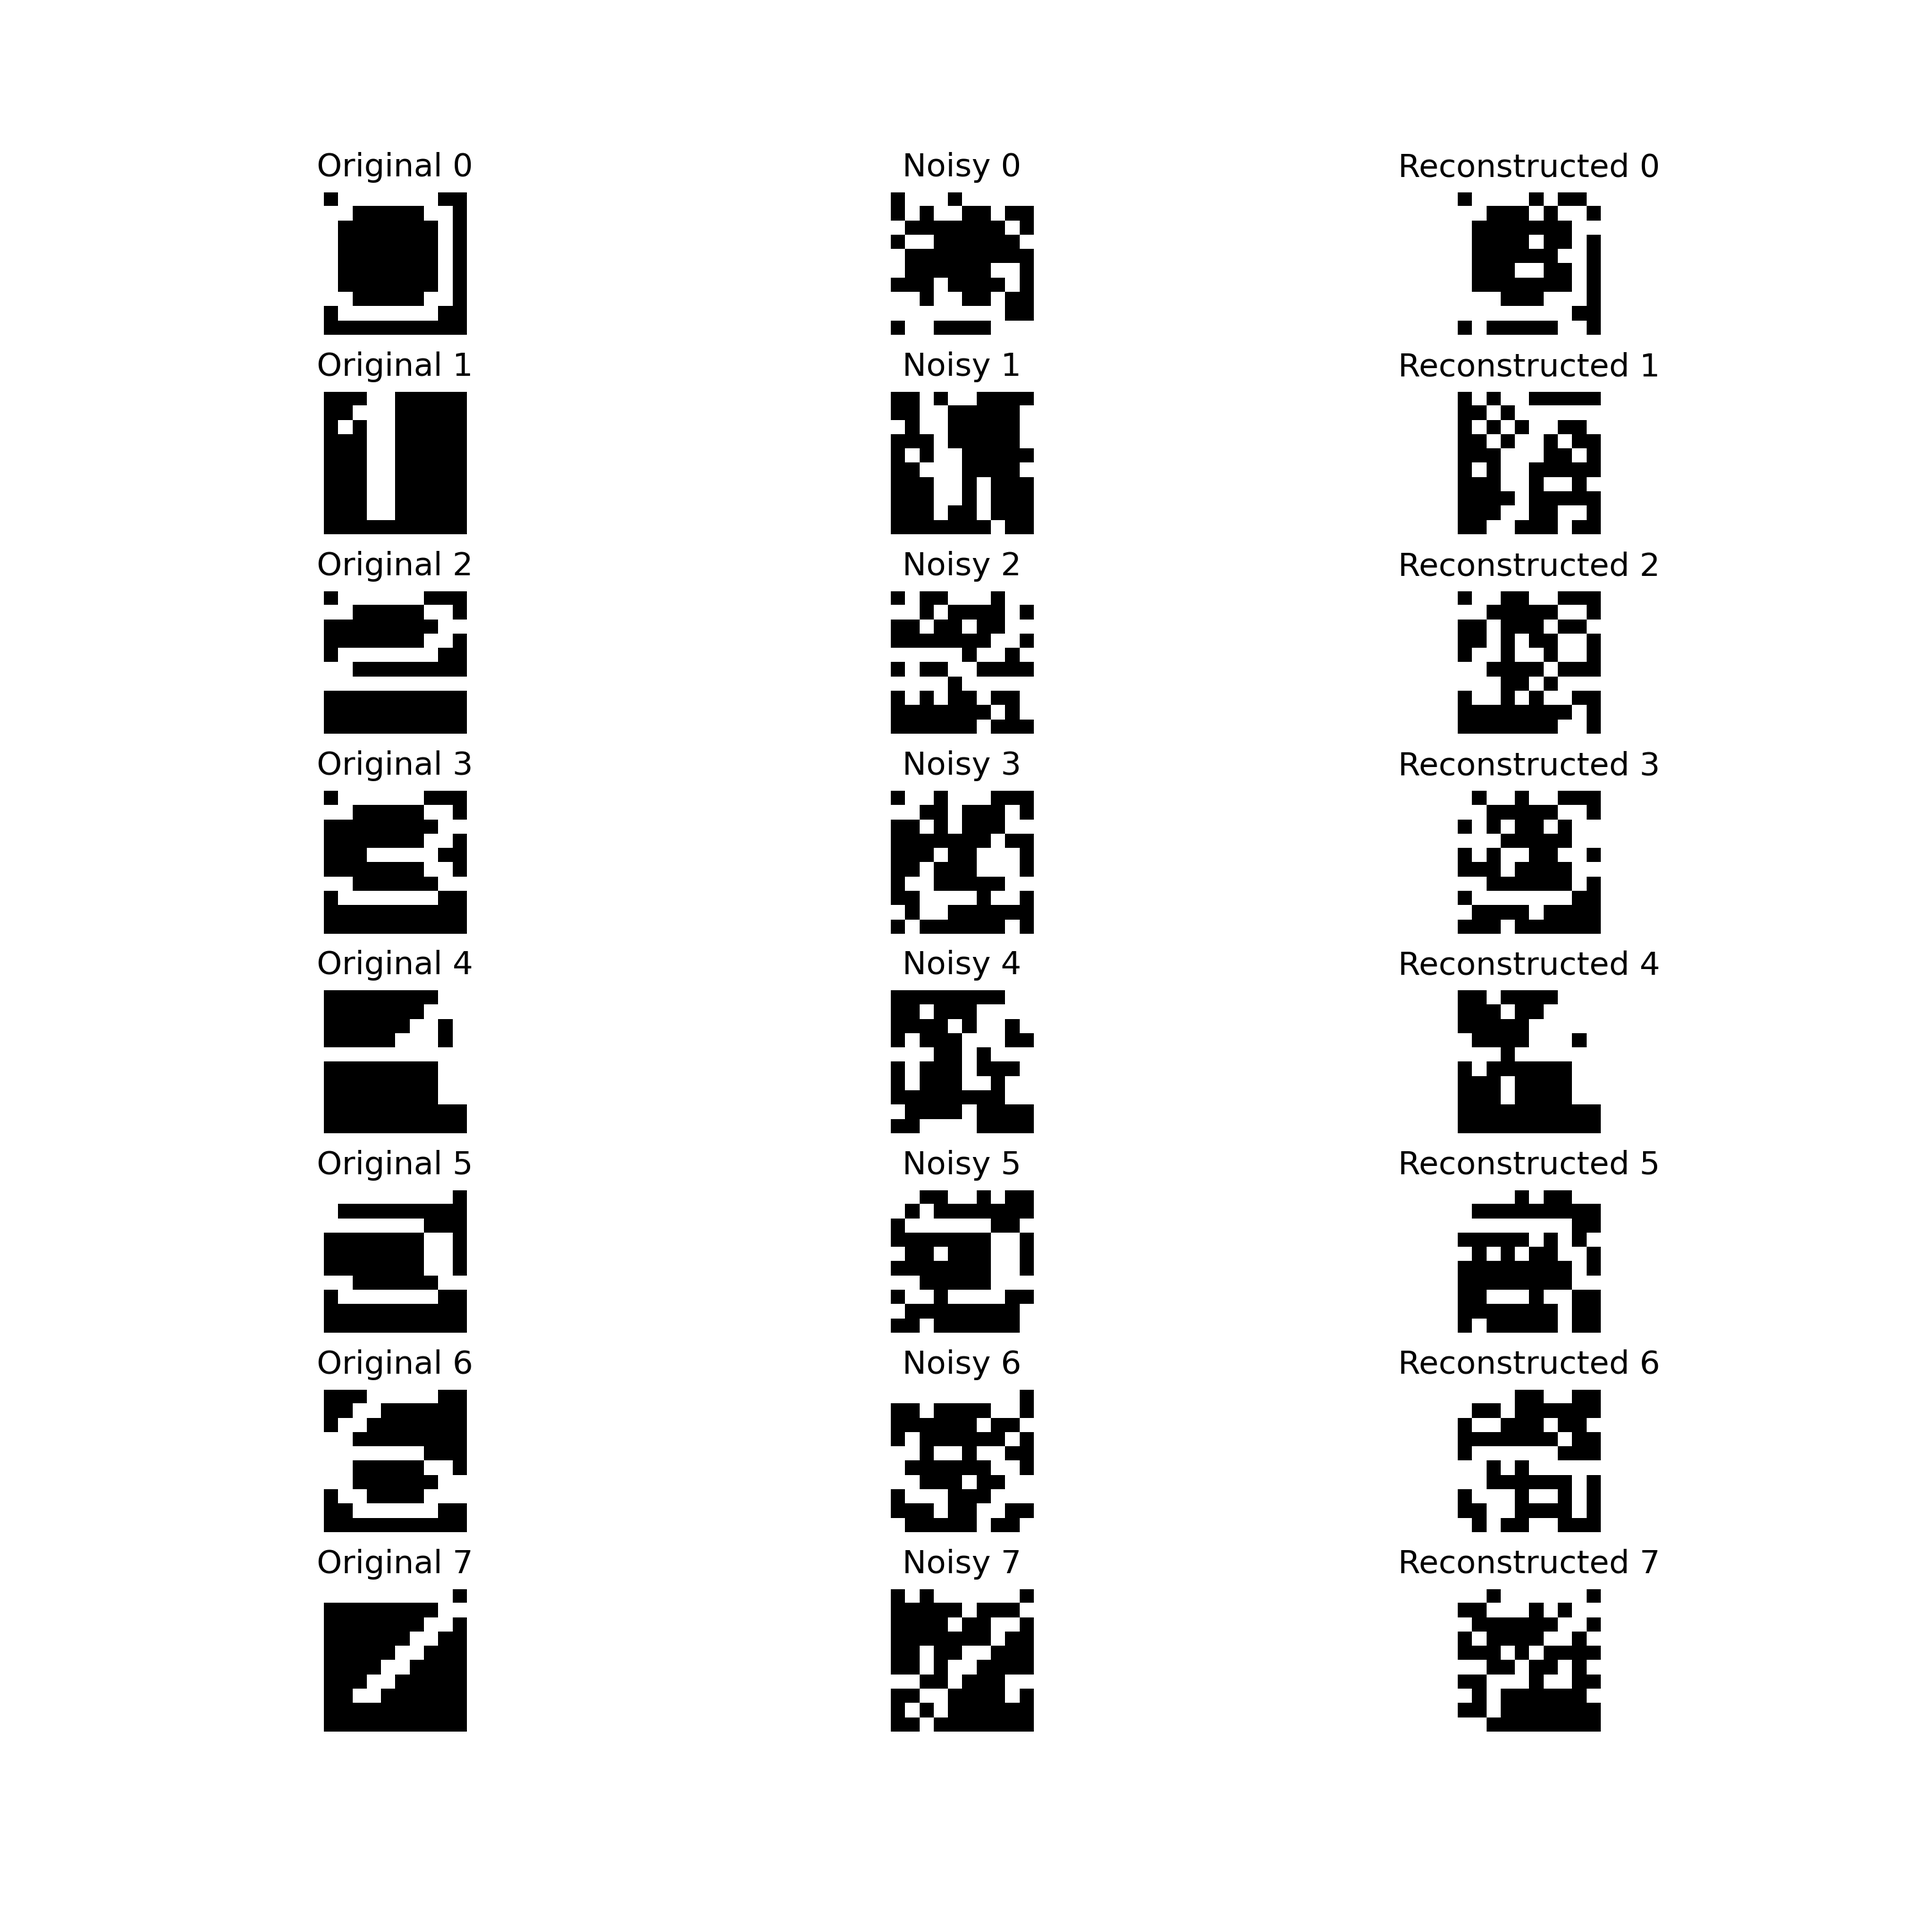
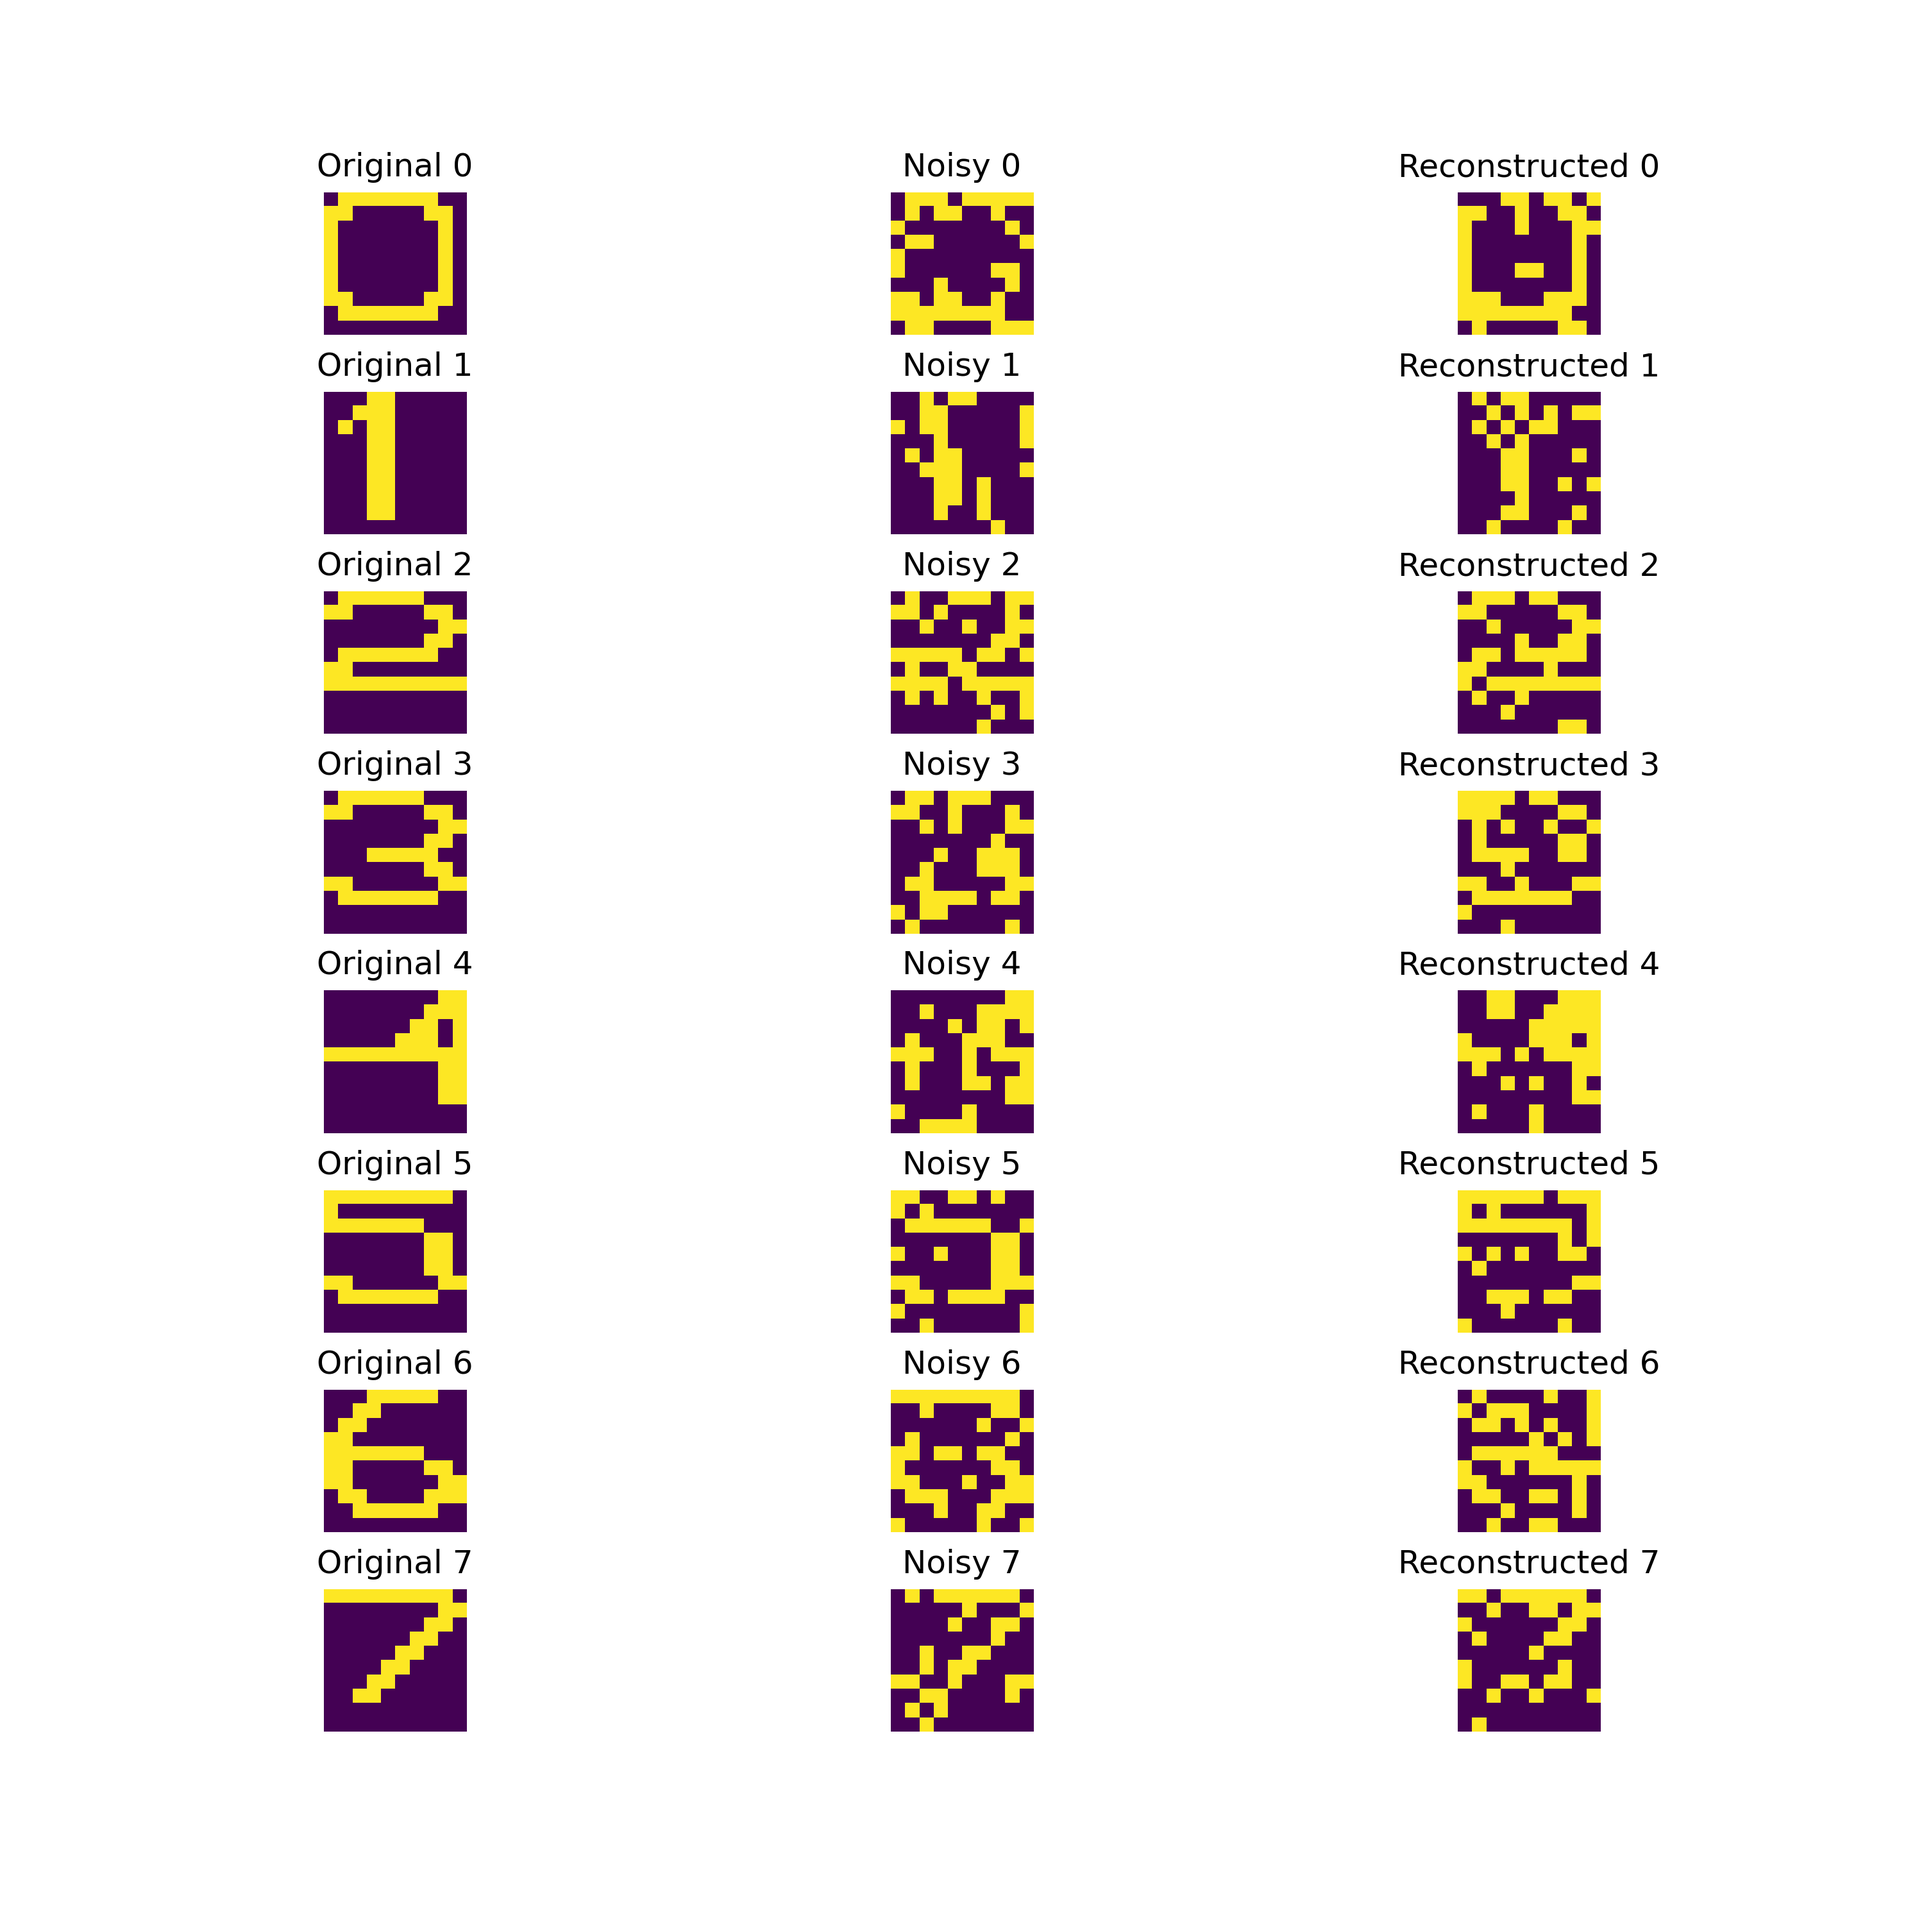
switched to using MSE

diff --git a/train_and_evaluate.py b/train_and_evaluate.py
@@ -2,11 +2,13 @@
 # Import helper functions
 import time
 import numpy as np
-from scipy.spatial.distance import euclidean
 
 # Import plot functions
 from plot_exemplars import plot_for_two_labels, plot_for_all_labels, plot_rbm_performance
 
+
+def mean_squared_error(y_true, y_pred):
+    return np.mean((y_true - y_pred)**2)
 
 def train_and_evaluate_gibbs_cycles(rbm,
                                     iters,
@@ -41,10 +43,10 @@ def train_and_evaluate_gibbs_cycles(rbm,
         correct_reconstructions_count = 0
         for _, (reconstructed_exemplar, true_label) in enumerate(zip(reconstructed_test_exemplars, test_labels)):
             # Calculate the Euclidean distance between the reconstructed exemplar and all exemplars
-            distances = [euclidean((reconstructed_exemplar > 0.5).astype(int), (exemplar > 0.5).astype(int)) for exemplar, _ in train_data]
+            mse_values = [mean_squared_error((reconstructed_exemplar > 0.5).astype(int), (exemplar > 0.5).astype(int)) for exemplar, _ in train_data]
 
-            # Find the index of the most similar exemplar (smallest Euclidean distance)
-            most_similar_index = np.argmin(distances)
+            # Find the index of the most similar exemplar (smallest MSE)
+            most_similar_index = np.argmin(mse_values)
 
             # Check if the most similar exemplar has the same label as the true label
             if train_data[most_similar_index][1] == true_label:

diff --git a/plot_exemplars.py b/plot_exemplars.py
@@ -73,7 +73,7 @@ def plot_for_all_labels(rbm,
     num_labels = len(unique_labels)
 
     plt.figure(1, figsize=(10, 10))
-    
+
     for i, label in enumerate(unique_labels):
         label_indices = [index for index, lbl in enumerate(test_labels) if lbl == label]
         index = label_indices[0]
@@ -103,10 +103,10 @@ def plot_for_all_labels(rbm,
         os.makedirs(save_directory)
     plt.savefig(os.path.join(save_directory, filename), dpi=300)
 
-    # if output_file:
-    #     plt.savefig(os.path.join(save_directory, filename), dpi=300)
-    # else:
-    plt.show()
+    if output_file:
+        plt.savefig(os.path.join(save_directory, filename), dpi=300)
+    else:
+        plt.show()
         
 def plot_rbm_performance(gibbs_cycles, correct_reconstructions, index_1, index_2, output_file=None):
     # Plot relationship between number of Gibbs cycles and frequency of correct reconstructions

diff --git a/rbm.py b/rbm.py
@@ -110,7 +110,7 @@ class RBM:
         return noisy_exemplar
 
     def plot_digit(self, digit_array):
-        plt.imshow(digit_array.reshape(10, 10), cmap="gray")
+        plt.imshow(digit_array.reshape(10, 10))
         plt.axis("off")
 
     def split_data(self, data, test_size=None, random_seed=None, original_exemplars=None):
@@ -130,7 +130,7 @@ class RBM:
 num_classes           = 8
 num_samples           = 50
 test_size_options     = [0.1, 0.2]
-num_classes           = 8  # Given there are 8 classes (0 to 7)
+num_classes           = 8
 num_samples           = 50
 test_size_options     = [0.1, 0.2]
 num_hidden_options    = [20, 40, 60, 80, 100, 120]
